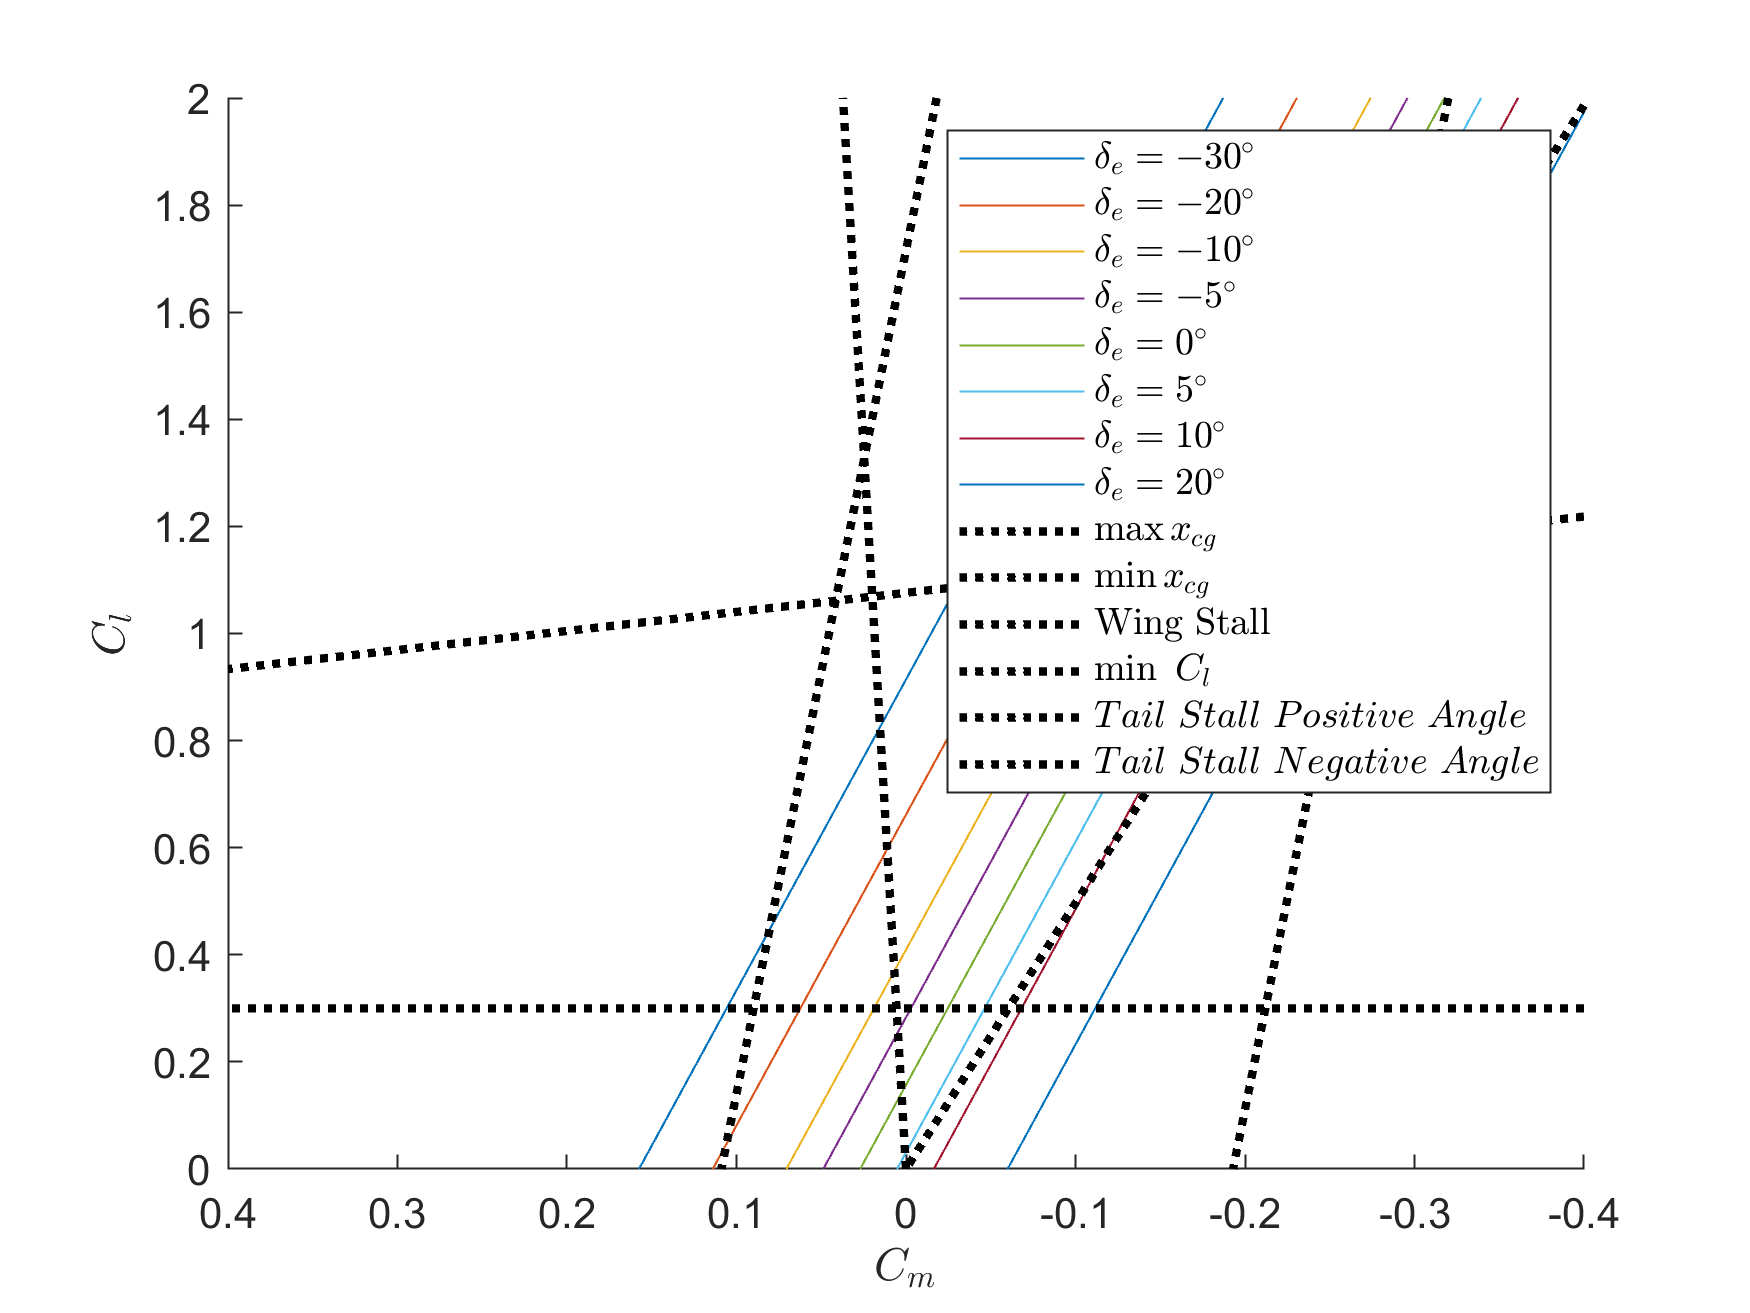
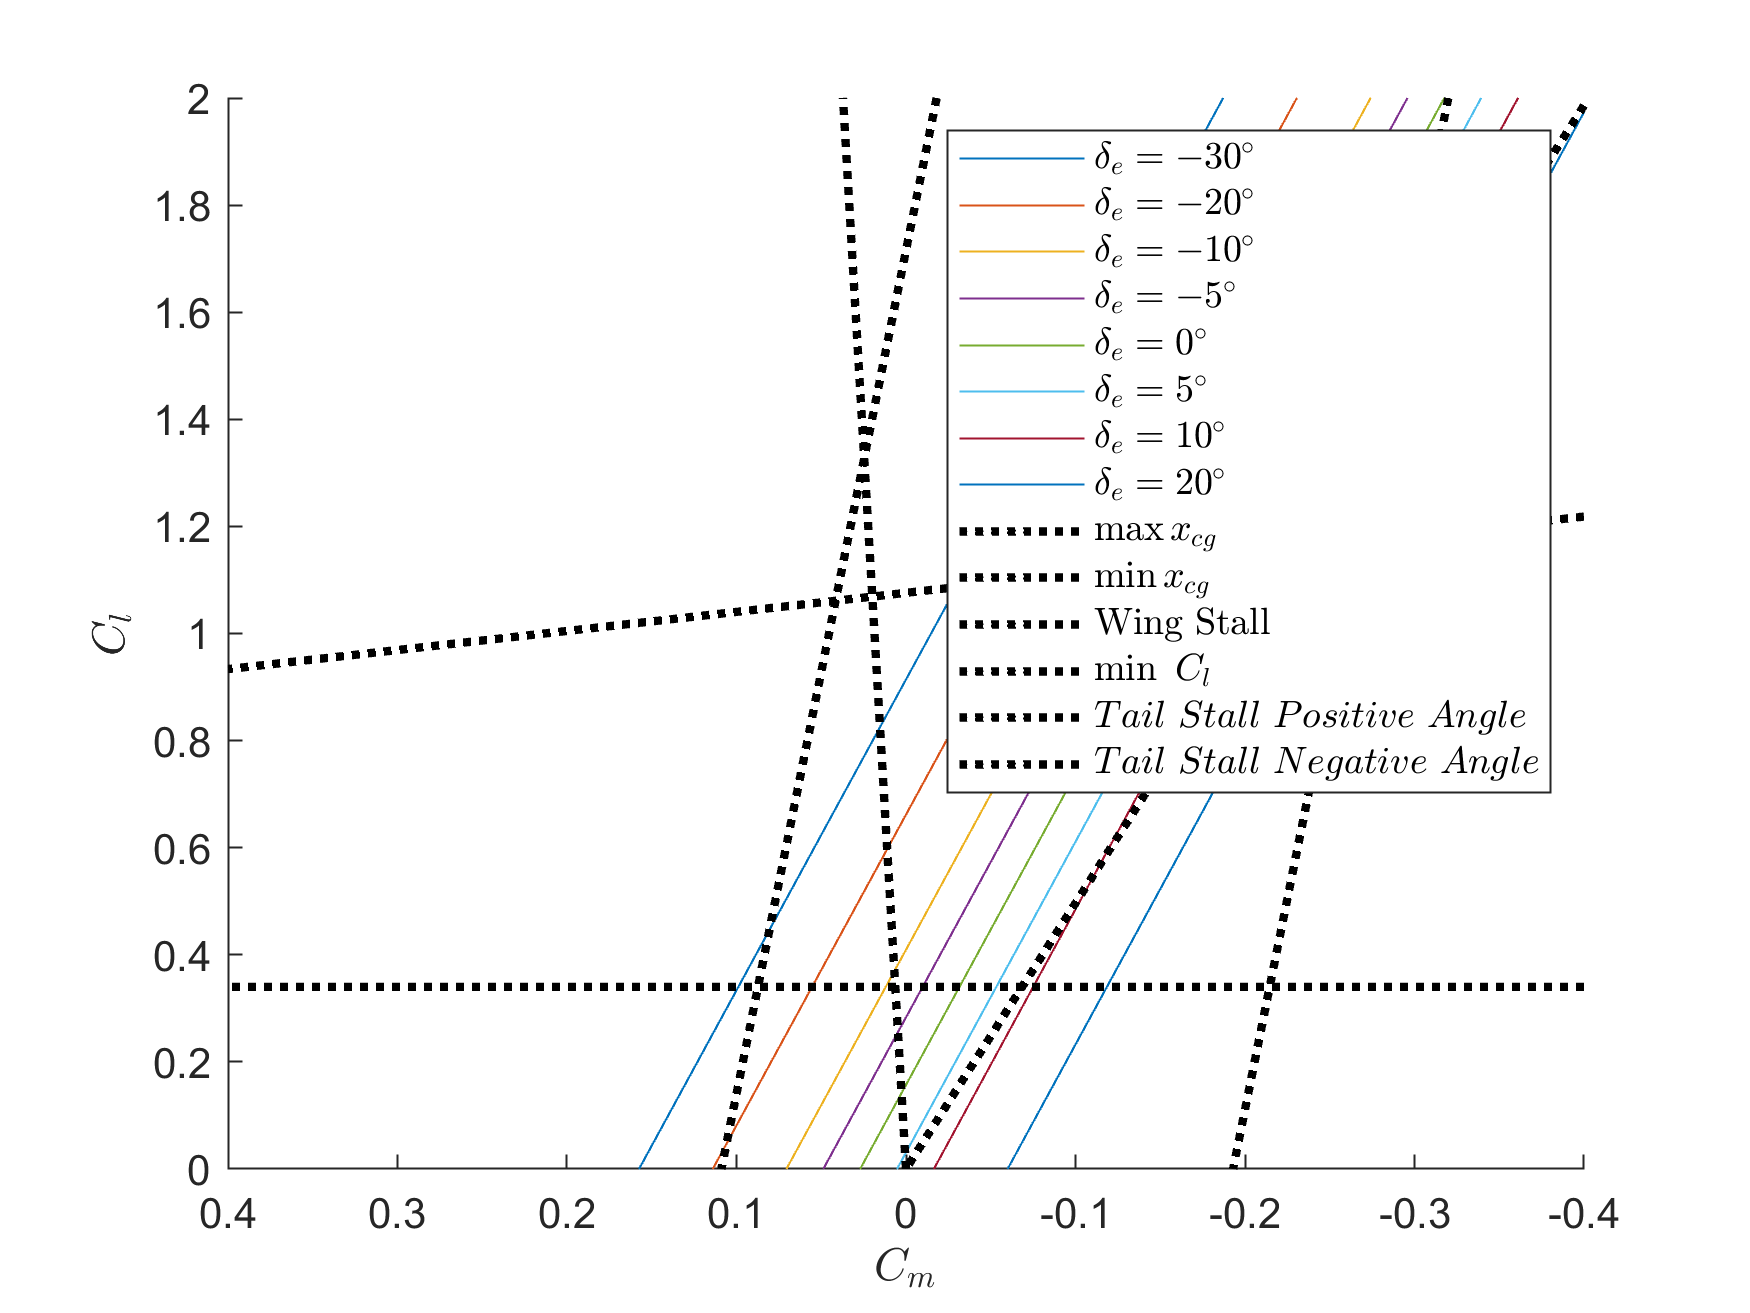
add DATCOM GUI directory

Changed region(s): [[0.1234, 0.7494, 0.8949, 0.7807]]

diff --git a/Trim Diagram/cm_vs_alpha.m b/Trim Diagram/cm_vs_alpha.m
@@ -1,0 +1,29 @@
+%%% Cm vs alpha %%%
+alpha = 0:10; % degree
+Cl_vsalpha = zeros(1, 11);
+Cm_vsalpha= zeros(1, 11);
+for i = 1:length(delta_elevator)
+temp = Cl_zero  + Cl_delta_elevator * delta_elevator(i); 
+Cl_vsalpha(i, :) =  Cl_alpha * alpha;
+Cl_vsalpha(i, :) = Cl_vsalpha(i, :) + temp;
+Cm_vsalpha(i, :) = Cm_zero_bar + (Cm_alpha / Cl_alpha) * Cl_vsalpha(i, :) +...
+    Cm_delta_elevator_bar * delta_elevator(i);
+end
+subplot(2,1,1);
+plot(alpha, Cm_vsalpha);
+legend('$\delta_e = -30^{\circ}$',...
+'$\delta_e = -20^{\circ}$','$\delta_e = -10^{\circ}$','$\delta_e = -5^{\circ}$',...
+'$\delta_e = 0^{\circ}$','$\delta_e = 5^{\circ}$',...
+'$\delta_e = 10^{\circ}$','$\delta_e = 20^{\circ}$', 'Interpreter','latex')
+xlabel('$\alpha$','Interpreter','latex');
+ylabel('$C_m$','Interpreter','latex');
+subplot(2,1,2); 
+plot(alpha, Cl_vsalpha);
+legend('$\delta_e = -30^{\circ}$',...
+'$\delta_e = -20^{\circ}$','$\delta_e = -10^{\circ}$','$\delta_e = -5^{\circ}$',...
+'$\delta_e = 0^{\circ}$','$\delta_e = 5^{\circ}$',...
+'$\delta_e = 10^{\circ}$','$\delta_e = 20^{\circ}$', 'Interpreter','latex')
+axis([0 10 0 0.75])
+xlabel('$\alpha$','Interpreter','latex');
+ylabel('$C_l$','Interpreter','latex');
+

diff --git a/Trim Diagram/trim_diagram_ploter.m b/Trim Diagram/trim_diagram_ploter.m
@@ -79,7 +79,7 @@ Cm_stall_axis = -0.4:0.01:0.4;
 plot(Cm_stall_axis, tail_Stall_line.p1 * Cm_stall_axis +tail_Stall_line.p2, 'k:', 'linewidth', 2);
 %%% min Cl %%%
 Cm_min_cl = -4:.01:0.4;
-Cl_min = ones(1, length(Cm_min_cl)) * 0.3;
+Cl_min = ones(1, length(Cm_min_cl)) * 0.34;
 plot(Cm_min_cl,Cl_min, 'k:', 'linewidth', 2);
 %%% legends never die %%%
 legend('$\delta_e = -30^{\circ}$',...

diff --git a/Trim Diagram/trim_diagram_ploter76.m b/Trim Diagram/trim_diagram_ploter76.m
@@ -79,7 +79,7 @@ Cm_stall_axis = -0.4:0.01:0.4;
 plot(Cm_stall_axis, tail_Stall_line.p1 * Cm_stall_axis +tail_Stall_line.p2, 'k:', 'linewidth', 2);
 %%% min Cl %%%
 Cm_min_cl = -4:.01:0.4;
-Cl_min = ones(1, length(Cm_min_cl)) * 0.3;
+Cl_min = ones(1, length(Cm_min_cl)) * 0.34;
 plot(Cm_min_cl,Cl_min, 'k:', 'linewidth', 2);
 %%% legends never die %%%
 legend('$\delta_e = -30^{\circ}$',...
